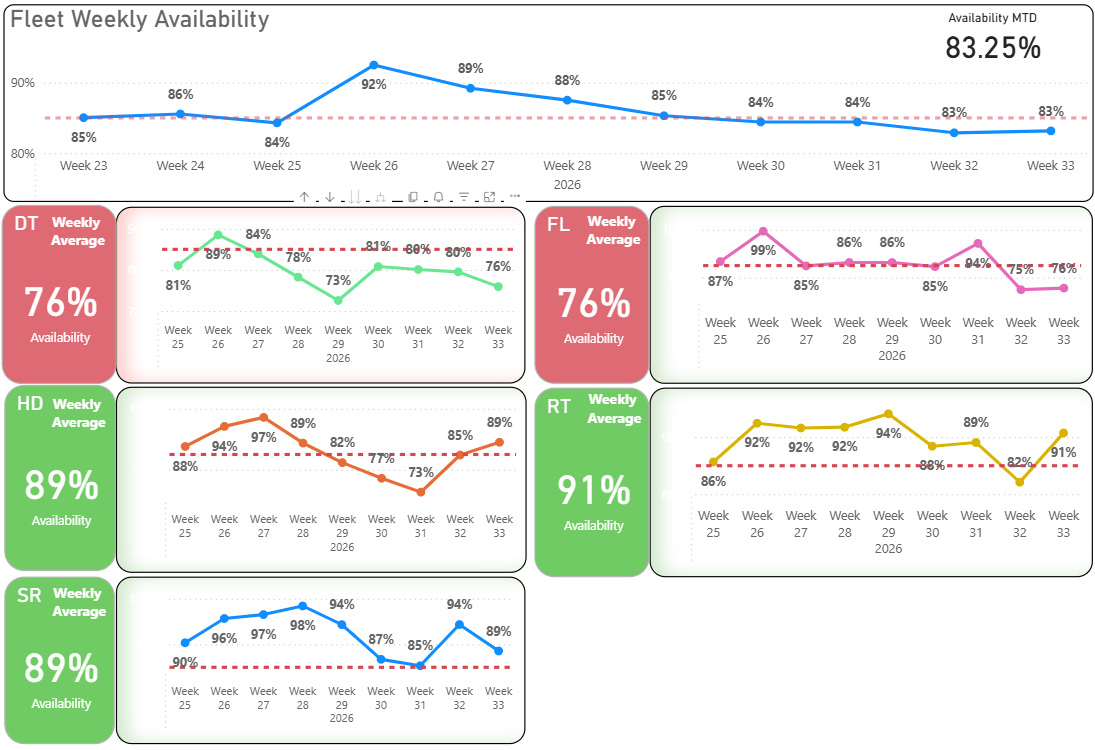
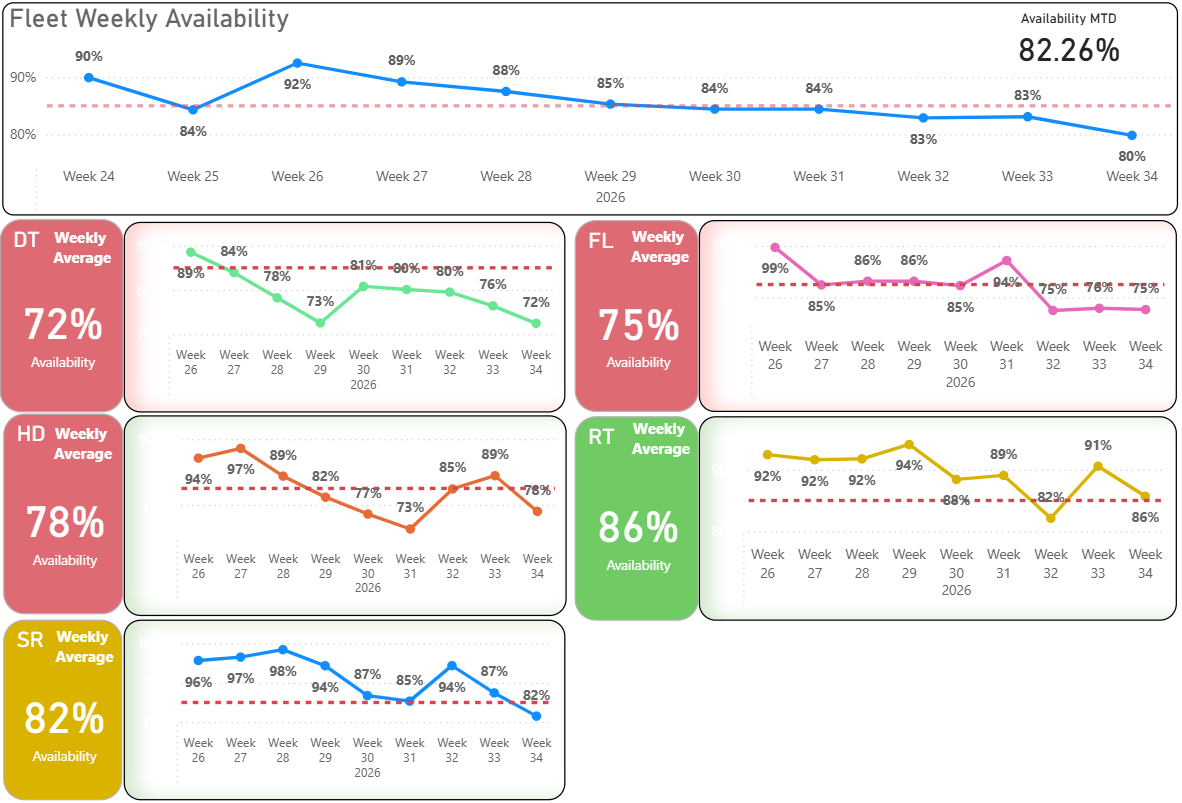
Update Week 34 data - All sites, BEV, and HEAL sections updated with actual data

Changed region(s): [[0.0, 0.0, 1.0, 1.0]]

diff --git a/src/data/reportData.ts b/src/data/reportData.ts
@@ -93,35 +93,28 @@ export const reportData: ReportData = {
   footerSrc: '/images/Footer.png',
   heal: {
     highlights: [
-        { site: 'N2', text: 'OEM coordinated effort to sort issues on UV137. Strata and ECS are working together.' },
-        { site: 'N3', text: 'DT0172 UG.' },
-        { site: 'N3', text: 'Much improved performance on HD, RTs.' },
-        { site: 'GLA', text: 'DT0184 & DT0185 COC completed and ready for production.' },
-        { site: 'GLA', text: 'UV0105 Water truck level 9 completed.' },
-        { site: 'GLA', text: 'TMM availability improve to 92%.' },
+        { site: 'N2', text: 'The average TMM availability had improved for this week.' },
+        { site: 'N2', text: 'All the emulsion UVs are back to production' },
+        { site: 'N3', text: 'Scaler 49 and 51 delivered to site.' },
     ],
     lowlights: [
-        { site: 'N2', text: 'Still have 2/3 charging UVs operation.' },
-        { site: 'N2', text: 'Barloworld site support is still a concern to attend DT121.' },
-        { site: 'N3', text: 'Scaler SR30 running out of control incident.' },
-        { site: 'N3', text: 'Poor UV availabilities, affecting blasting.' },
-        { site: 'N3', text: 'Sat Tip 1 Tip 1 Rock breaker boom failure.' },
-        { site: 'GLA', text: 'DT0174 & DT0152 Waiting Balow\'s for level 9.' },
+        { site: 'N2', text: 'The UV 137 is switched back to Level 7 while the team is still trying to find a solution' },
+        { site: 'N2', text: 'Increased breakdowns on utility LDOs.' },
+        { site: 'N3', text: 'SR0028 brakes failure, found on inspection' },
+        { site: 'N3', text: 'Poor availabilities of DT, FL and HD through the week.' },
+        { site: 'N3', text: 'Damage to decline conveyor require 9m splice' },
     ],
     emergingIssues: [
-        { site: 'N2', text: 'Lack of necessary skills for OEM support team.' },
-        { site: 'N2', text: 'Required Engine upgrade for UV108 to be compatible with CAS L9.' },
-        { site: 'N3', text: 'Roadway Conditions.' },
-        { site: 'GLA', text: 'UV 0068 Emulsion unit axle to be replace nothing available at the store.' },
-        { site: 'GLA', text: 'Commission surface compressor – Challenge 4 inch from the compressor to 2-inch line in the shaft and keep tripping the compressor.' },
+        { site: 'N2', text: 'Electrical reticulation network is getting overloaded' },
+        { site: 'N3', text: 'Spares for S2 and Scalers (engines)' },
+        { site: 'N3', text: 'Roadway conditions' },
     ],
     priorities: [
-        { site: 'N2', text: 'Drive actions on Engineers action tracker.' },
-        { site: 'N2', text: 'Discuss availability contributing factors with the team.' },
-        { site: 'N3', text: 'Commission DT0172 over the weekend (Strata).' },
-        { site: 'GLA', text: '74N tip liners to be repairs.' },
-        { site: 'GLA', text: 'Conveyor Watch to submit splice condition report.' },
-        { site: 'GLA', text: 'CV0053 to do hot splice.' },
+        { site: 'N2', text: 'Encourage team effort through VFL and action findings.' },
+        { site: 'N3', text: 'Vehicle allocation' },
+        { site: 'N3', text: 'Roadway maintenance strategy' },
+        { site: 'N3', text: 'DT0148 and DT0145 repair (Barlows)' },
+        { site: 'N3', text: 'Appointment of GES and mech foreman' },
     ],
   },
   shaftsAndWinders: {
@@ -135,72 +128,70 @@ export const reportData: ReportData = {
   sites: {
     nchwaning3: {
       name: 'Nchwaning 3',
-      trendChart: { src: '/images/N3 Weekly availability chart.png', comment: '"Zero safety incidents this week. FL Diesel availability at 60.4% - critical concern. DT121 standing for 3+ weeks."' },
-      safety: { status: 'Concern', details: 'Scaler brake failure incident - Dangerous Occurrence (YTD: MTC=15, LTI=3, PD=54)' },
-      weeklyAverage: { value: 81.8, target: 85 },
-      serviceCompliance: { status: 'Issues', details: 'DT BEV at 66.7% (DT0171 on breakdown), Support Equip at 80%' },
+      trendChart: { src: '/images/N3 Weekly availability chart.png', comment: '"SR0028 brakes failure incident. Poor DT, FL, HD availability. Decline conveyor damage requires 9m splice."' },
+      safety: { status: 'Concern', details: 'SR0028 brakes failure found on inspection - Dangerous Occurrence' },
+      weeklyAverage: { value: 75.1, target: 85 },
+      serviceCompliance: { status: 'Issues', details: 'SR at 60% (SR0030 Scraped, SR0035 Waiting for engine), Support Equip at 66.7%' },
       availability: [
-          { label: 'DT', percentage: 78.1, target: 85 },
-          { label: 'FL', percentage: 73.1, target: 85 },
-          { label: 'HD', percentage: 89.2, target: 85 },
-          { label: 'RT', percentage: 88.4, target: 85 },
-          { label: 'SR', percentage: 92.4, target: 85 },
+          { label: 'DT', percentage: 73.6, target: 85 },
+          { label: 'FL', percentage: 68.2, target: 85 },
+          { label: 'HD', percentage: 79.4, target: 85 },
+          { label: 'RT', percentage: 84.4, target: 85 },
+          { label: 'SR', percentage: 78.0, target: 85 },
       ],
       breakdowns: [
-          { category: 'Dump Trucks (78.1%)', details: 'DT145: Gears Faulty, DT148: Aircon/Mainswitch, DT171: A Frame, DT146: Isolator faulty, DT149: Invertor Error, DT162: Battery Overheat' },
-          { category: 'Front Loaders (73.1%)', details: 'FL101: Steering Problem, FL103: Not Starting/Aircon/Tagbox, FL90: Comms Error' },
+          { category: 'Dump Trucks (73.6%)', details: 'DT148: Aircon/Mainswitch, DT145: Gears, DT154: Fail brake test, DT171: A Frame/E Stop, DT149: Isolation Faulty' },
+          { category: 'Front Loaders (68.2%)', details: 'FL101: Steering, FL103: Aircon/Not starting/Steering, FL112: Comms, FL107: Sensor, FL108: Half Arrows, FL98: Transmission' },
+          { category: 'Haul Dump (79.4%)', details: 'HD49: Water hose reel/Bosch Pump, HD56: Brake Failed, HD62: Bosch Pump' },
       ],
     },
     nchwaning2: {
         name: 'Nchwaning 2',
-        trendChart: { src: '/images/N2 Weekly availability chart.png', comment: '"Zero safety incidents this week. FL service compliance at 66.7% due to availability. Support equipment at 94.7%."' },
-        safety: { status: 'Good', details: 'Zero incidents this week (YTD: MTC=1, LTI=0, PD=5)' },
-        weeklyAverage: { value: 81.56, target: 85 },
-        serviceCompliance: { status: 'Issues', details: 'FL: 66.7% (rescheduled), Support: 120% (over-serviced)' },
+        trendChart: { src: '/images/N2 Weekly availability chart.png', comment: '"Zero safety incidents this week. TMM availability improved. All emulsion UVs back to production."' },
+        safety: { status: 'Good', details: 'Zero incidents this week' },
+        weeklyAverage: { value: 85.6, target: 85 },
+        serviceCompliance: { status: 'Good', details: 'DT: 100%, FL: 100%, HD: 75%, RT: 100%, SR: 100%, Support: 100%' },
         availability: [
-            { label: 'DT', percentage: 71.8, target: 85 },
-            { label: 'FL', percentage: 76.6, target: 85 },
-            { label: 'HD', percentage: 89.6, target: 85 },
-            { label: 'RT', percentage: 85.8, target: 85 },
-            { label: 'SR', percentage: 85.0, target: 85 },
+            { label: 'DT', percentage: 83.0, target: 85 },
+            { label: 'FL', percentage: 88.2, target: 85 },
         ],
         breakdowns: [
-            { category: 'Dump Trucks (71.8%)', details: 'FL102 repair leaks and DT120 lubrication' },
-            { category: 'Front Loaders (76.6%)', details: 'FL106 overheating - replacing radiator, FL0102 engine cut-off' },
+            { category: 'Dump Trucks (83.0%)', details: 'DT121 - Technician busy on site' },
         ],
     },
     gloria: {
         name: 'Gloria',
-        trendChart: { src: '/images/Gloria Weekly availability Chart.png', comment: '"Strong HD availability at 97.2%. FL availability at 99.0%. Zero safety incidents this week."' },
-        safety: { status: 'Good', details: 'Zero incidents this week (YTD: MTC=2, LTI=1, PD=6)' },
-        weeklyAverage: { value: 91.6, target: 85 },
-        serviceCompliance: { status: 'Issues', details: 'HD: 50% (RT0046; RT0060), RT: 100%, Support: 100%' },
+        trendChart: { src: '/images/Gloria Weekly availability Chart.png', comment: '"Strong HD availability at 91.4%. FL availability at 85.6%. Zero safety incidents this week."' },
+        safety: { status: 'Good', details: 'Zero incidents this week' },
+        weeklyAverage: { value: 81.9, target: 85 },
+        serviceCompliance: { status: 'Issues', details: 'FL: 0% (GD0008 on breakdown), RT: 66.7%, SR: 50%, Support: 80%' },
         availability: [
-            { label: 'DT', percentage: 75, target: 85 },
-            { label: 'FL', percentage: 99, target: 85 },
-            { label: 'HD', percentage: 96, target: 85 },
-            { label: 'RT', percentage: 95, target: 85 },
-            { label: 'SR', percentage: 93, target: 85 },
+            { label: 'DT', percentage: 61.0, target: 85 },
+            { label: 'FL', percentage: 85.6, target: 85 },
+            { label: 'HD', percentage: 91.4, target: 85 },
+            { label: 'RT', percentage: 89.0, target: 85 },
+            { label: 'SR', percentage: 82.6, target: 85 },
         ],
         breakdowns: [
-            { category: 'DT (75%)', details: 'DT0174 & DT0152 Waiting Balow\'s for level 9' },
+            { category: 'DT (61.0%)', details: 'DT0174: No revs, DT0173: Transmission timing, DT0106: Nerospec, DT0152: Powerless, DT0153: No acceleration' },
+            { category: 'SR (82.6%)', details: 'SR0040: CAS Level 9 installation' },
         ],
     },
   },
   bev: {
     availability: [
-        { label: 'DT BEV', value: 78, target: 85 },
-        { label: 'FL BEV', value: 85, target: 85 },
+        { label: 'DT BEV', value: 68, target: 85 },
+        { label: 'FL BEV', value: 90, target: 85 },
     ],
     serviceCompliance: [
-        { label: 'DT BEV', value: 66.7 },
+        { label: 'DT BEV', value: 100 },
         { label: 'FL BEV', value: 100 },
     ],
     breakdowns: [
-        { equipment: 'DT BEV', details: ['DT0171: A-Frame Failure @ WS (167.22 hrs)', 'DT0149: Electrical Issues (58.77 hrs)', 'DT0162: Battery Overheating (7.58 hrs)', 'DT0146: Invertor & Fan issues (8.37 hrs)'] },
-        { equipment: 'FL BEV', details: ['FL0099: Boilermaker & Multiple (49.91 hrs)', 'FL0108: Boilermaker Half Arrows (41.50 hrs)', 'FL0112: Strata System failures (26.82 hrs)', 'FL0113: Windscreen damage (15.42 hrs)'] },
+        { equipment: 'DT BEV', details: ['DT0171: A frame @ WS (112.60 hrs)', 'DT0172: HVEL Fault @ Batt Bay (37.17 hrs)', 'DT0147: Emergency stop @ tramming parking (31.18 hrs)', 'DT0163: Red Stop Lamb @ Batt Bay (26.38 hrs)'] },
+        { equipment: 'FL BEV', details: ['FL0098: Replace transmission mounting rubbers @ Workshop (47.45 hrs)', 'FL0108: Half Arrows @ boilershop (19.42 hrs)', 'FL0112: Comms Error @ 49s59w SWD (1.98 hrs)', 'FL0113: Oil Leak @ batt bay (1.25 hrs)'] },
     ],
-    batteryThemes: ['DT BEV at 78% - below target by 7%. Critical: DT0171 A-Frame failure (167 hrs).', 'FL BEV at 85% - meets target. Boilermaker work and Strata issues main constraints.', 'Battery VPY00076 isolation fault affecting FL0099. Charger status: 7/8 operational.'],
+    batteryThemes: ['DT BEV at 68% - below target by 17%. Critical: DT0171 A-frame failure (112.6 hrs).', 'FL BEV at 90% - exceeds target. Transmission work and boilermaker issues main constraints.', 'DT0172 HVEL faults and DT0147 emergency stop issues affecting availability.'],
   },
   utilitySection: {
     fleetStatus: { available: 61, unavailable: 4 },